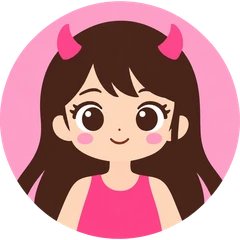
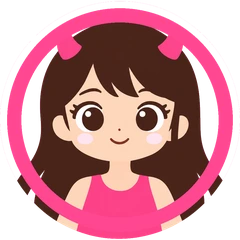
이력 오브젝트 색을 다른 오브젝트와 맞춤
Claude-Session: https://claude.ai/code/session_01GAFtkmkAShqGxSHJr2soeh

Changed region(s): [[0.0, 0.0, 1.0, 0.9333], [0.3208, 0.5542, 0.4083, 0.6125], [0.6125, 0.5542, 0.6708, 0.6125]]

diff --git a/index.html b/index.html
@@ -453,7 +453,7 @@ body.admin .page .cards .card{cursor:grab;outline:1.5px dashed var(--pink-light)
     <!-- 오브젝트 그림이 오면 .ph 대신 <img src="objects/파일명.png" alt=""> -->
     <nav class="menu" aria-label="메뉴">
       <a href="#" data-go="" class="home-link"><span class="lnico"><svg viewBox="0 0 24 24" fill="none" stroke="currentColor" stroke-width="1.8" stroke-linecap="round" stroke-linejoin="round" aria-hidden="true"><path d="M3 10.5 12 3l9 7.5"/><path d="M5 9.5V21h14V9.5"/><path d="M10 21v-6h4v6"/></svg></span><span class="icon"><img src="obj/home.webp" alt=""></span><span class="label">홈</span></a>
-      <a href="#about"   data-go="about"   data-line="제 소개부터 할게요!"><span class="lnico"><svg viewBox="0 0 24 24" fill="none" stroke="currentColor" stroke-width="1.8" stroke-linecap="round" stroke-linejoin="round" aria-hidden="true"><circle cx="12" cy="12" r="9"/><circle cx="12" cy="10" r="3"/><path d="M6.5 18.6a6.5 6.5 0 0 1 11 0"/></svg></span><span class="icon"><img src="obj/career.webp?v=2" alt=""></span><span class="label">이력</span></a>
+      <a href="#about"   data-go="about"   data-line="제 소개부터 할게요!"><span class="lnico"><svg viewBox="0 0 24 24" fill="none" stroke="currentColor" stroke-width="1.8" stroke-linecap="round" stroke-linejoin="round" aria-hidden="true"><circle cx="12" cy="12" r="9"/><circle cx="12" cy="10" r="3"/><path d="M6.5 18.6a6.5 6.5 0 0 1 11 0"/></svg></span><span class="icon"><img src="obj/career.webp?v=3" alt=""></span><span class="label">이력</span></a>
       <a href="#promo"   data-go="promo"><span class="lnico"><svg viewBox="0 0 24 24" fill="none" stroke="currentColor" stroke-width="1.8" stroke-linecap="round" stroke-linejoin="round" aria-hidden="true"><path d="M3.5 10v4h3l7.5 4.5v-13L6.5 10z"/><path d="M17 9a4.5 4.5 0 0 1 0 6"/><path d="M19.5 6.5a8 8 0 0 1 0 11"/></svg></span><span class="icon"><img src="obj/promo.webp" alt=""></span><span class="label">연수 홍보</span></a>
       <a href="#video"   data-go="video"   data-line="제가 만든 영상이에요"><span class="lnico"><svg viewBox="0 0 24 24" fill="none" stroke="currentColor" stroke-width="1.8" stroke-linecap="round" stroke-linejoin="round" aria-hidden="true"><rect x="3" y="5" width="18" height="14" rx="3.5"/><path d="m10 9.2 5 2.8-5 2.8z"/></svg></span><span class="icon"><img src="obj/video.webp?v=2" alt=""></span><span class="label">영상 콘텐츠</span></a>
       <a href="#webapp"  data-go="webapp"  data-line="직접 만든 웹앱이에요!"><span class="lnico"><svg viewBox="0 0 24 24" fill="none" stroke="currentColor" stroke-width="1.8" stroke-linecap="round" stroke-linejoin="round" aria-hidden="true"><rect x="3" y="4" width="18" height="16" rx="2.5"/><path d="M3 8.5h18"/><path d="M11 11.5v6.5l1.7-1.7 1.6 2.8 1.3-.7-1.6-2.8 2.4-.3z"/></svg></span><span class="icon"><img src="obj/webapp.webp?v=2" alt=""></span><span class="label">웹앱 콘텐츠</span></a>
@@ -488,7 +488,7 @@ body.admin .page .cards .card{cursor:grab;outline:1.5px dashed var(--pink-light)
   </div>
   <!-- 오브젝트 그림이 오면 .ph 대신 <img src="objects/파일명.png" alt=""> -->
   <nav class="objs" aria-label="오브젝트 메뉴">
-    <a class="obj" href="#about" data-go="about" style="--f:-1;top:36%"><span class="obj-in"><span class="obj-card"><span class="obj-ic"><img src="obj/career.webp?v=2" alt=""></span><span class="obj-tx"><b>이력</b></span></span></span></a>
+    <a class="obj" href="#about" data-go="about" style="--f:-1;top:36%"><span class="obj-in"><span class="obj-card"><span class="obj-ic"><img src="obj/career.webp?v=3" alt=""></span><span class="obj-tx"><b>이력</b></span></span></span></a>
     <a class="obj" href="#video" data-go="video" style="--f:-1.22;top:52%"><span class="obj-in"><span class="obj-card"><span class="obj-ic"><img src="obj/video.webp?v=2" alt=""></span><span class="obj-tx"><b>영상 콘텐츠</b></span></span></span></a>
     <a class="obj" href="#train" data-go="train" style="--f:-1;top:68%"><span class="obj-in"><span class="obj-card"><span class="obj-ic"><img src="obj/lecture.webp" alt=""></span><span class="obj-tx"><b>연수 교안</b></span></span></span></a>
     <a class="obj" href="#promo" data-go="promo" style="--f:1;top:36%"><span class="obj-in"><span class="obj-card"><span class="obj-ic"><img src="obj/promo.webp" alt=""></span><span class="obj-tx"><b>연수 홍보</b></span></span></span></a>
